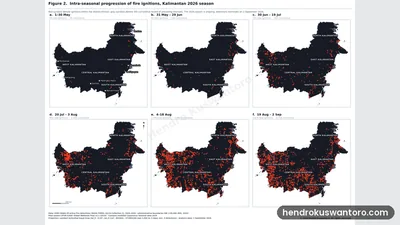
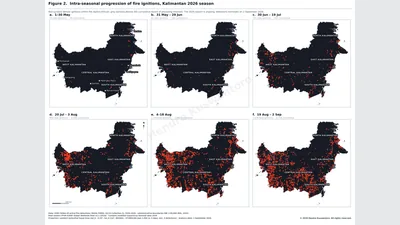
feat(gambar): label nama situs di pojok gambar karya dihapus
Atas permintaan pemilik. Lembar petanya sendiri sudah memuat nama dan hak
ciptanya, jadi label tambahan hanya menutupi isi peta.

build_work_images.py kini juga menyalin hasilnya ke
next/public/assets/img/work/. Sebelumnya salinan port Next disalin tangan,
dan tanpa ini port Next tetap memakai gambar berlabel.

Changed region(s): [[0.69, 0.9022, 0.99, 0.9956]]

diff --git a/project.html b/project.html
@@ -112,8 +112,8 @@
 
         <article class="card reveal" id="karya-parking" data-category="app">
           <div class="card__cover">
-            <img src="/assets/img/work/parking.webp?v=8e000f92a9"
-                 srcset="/assets/img/work/parking-400.webp?v=52d7f76f31 400w, /assets/img/work/parking-600.webp?v=6232295625 600w, /assets/img/work/parking.webp?v=8e000f92a9 800w"
+            <img src="/assets/img/work/parking.webp?v=12dc5e71f9"
+                 srcset="/assets/img/work/parking-400.webp?v=8c0a75ce2b 400w, /assets/img/work/parking-600.webp?v=d514756973 600w, /assets/img/work/parking.webp?v=12dc5e71f9 800w"
                  sizes="(min-width: 1440px) 443px, (min-width: 960px) 31vw, (min-width: 660px) 47vw, 92vw" width="800" height="450" loading="lazy" decoding="async"
                  alt="Screenshot of the parking map app showing the zone and the fee for Jalan Malioboro" data-ind-alt="Tangkapan layar aplikasi peta parkir, menampilkan zona dan tarif di Jalan Malioboro">
             <span class="card__badge" data-ind="Aplikasi peta">Map app</span>
@@ -129,8 +129,8 @@
 
         <article class="card reveal" id="karya-fire" data-category="satellite analysis">
           <div class="card__cover">
-            <img src="/assets/img/work/fire.webp?v=e1e03bc9f7"
-                 srcset="/assets/img/work/fire-400.webp?v=203c19d9d7 400w, /assets/img/work/fire-600.webp?v=2bd21ca442 600w, /assets/img/work/fire.webp?v=e1e03bc9f7 800w"
+            <img src="/assets/img/work/fire.webp?v=b8b2d4072d"
+                 srcset="/assets/img/work/fire-400.webp?v=a212b49ec5 400w, /assets/img/work/fire-600.webp?v=db3194a43f 600w, /assets/img/work/fire.webp?v=b8b2d4072d 800w"
                  sizes="(min-width: 1440px) 443px, (min-width: 960px) 31vw, (min-width: 660px) 47vw, 92vw" width="800" height="450" loading="lazy" decoding="async"
                  alt="Six small maps of Kalimantan showing where fires ignited through the 2026 season" data-ind-alt="Enam peta kecil Kalimantan yang menunjukkan titik api sepanjang musim 2026">
             <span class="card__badge" data-ind="Data satelit">Satellite data</span>
@@ -146,8 +146,8 @@
 
         <article class="card reveal" id="karya-fish" data-category="analysis">
           <div class="card__cover">
-            <img src="/assets/img/work/fish.webp?v=ebbd9fdb43"
-                 srcset="/assets/img/work/fish-400.webp?v=f845383dce 400w, /assets/img/work/fish-600.webp?v=7e095854b6 600w, /assets/img/work/fish.webp?v=ebbd9fdb43 800w"
+            <img src="/assets/img/work/fish.webp?v=6dd5455c36"
+                 srcset="/assets/img/work/fish-400.webp?v=c53febb9af 400w, /assets/img/work/fish-600.webp?v=f9ca04fbcf 600w, /assets/img/work/fish.webp?v=6dd5455c36 800w"
                  sizes="(min-width: 1440px) 443px, (min-width: 960px) 31vw, (min-width: 660px) 47vw, 92vw" width="800" height="450" loading="lazy" decoding="async"
                  alt="Poster with suitability maps and charts for fish landing sites in Natuna" data-ind-alt="Poster berisi peta kesesuaian dan grafik lokasi pendaratan ikan di Natuna">
             <span class="card__badge" data-ind="Analisis peta">Map analysis</span>
@@ -163,8 +163,8 @@
 
         <article class="card reveal" id="karya-pickup" data-category="analysis">
           <div class="card__cover">
-            <img src="/assets/img/work/pickup.webp?v=c87b665813"
-                 srcset="/assets/img/work/pickup-400.webp?v=ed17ec7db1 400w, /assets/img/work/pickup-600.webp?v=0c62cc569b 600w, /assets/img/work/pickup.webp?v=c87b665813 800w"
+            <img src="/assets/img/work/pickup.webp?v=b8a1371611"
+                 srcset="/assets/img/work/pickup-400.webp?v=0c9f39047f 400w, /assets/img/work/pickup-600.webp?v=e4d6ca77fc 600w, /assets/img/work/pickup.webp?v=b8a1371611 800w"
                  sizes="(min-width: 1440px) 443px, (min-width: 960px) 31vw, (min-width: 660px) 47vw, 92vw" width="800" height="450" loading="lazy" decoding="async"
                  alt="Map of common pickup points from driver GPS pings in Jakarta" data-ind-alt="Peta titik jemput umum dari ping GPS pengemudi di Jakarta">
             <span class="card__badge" data-ind="Analisis peta">Map analysis</span>
@@ -180,8 +180,8 @@
 
         <article class="card reveal" id="karya-reach" data-category="analysis design">
           <div class="card__cover">
-            <img src="/assets/img/work/reach.webp?v=416ec76d18"
-                 srcset="/assets/img/work/reach-400.webp?v=f410f4b4dc 400w, /assets/img/work/reach-600.webp?v=bac95053fa 600w, /assets/img/work/reach.webp?v=416ec76d18 800w"
+            <img src="/assets/img/work/reach.webp?v=de663f5dfd"
+                 srcset="/assets/img/work/reach-400.webp?v=31c3b750a4 400w, /assets/img/work/reach-600.webp?v=5895df2181 600w, /assets/img/work/reach.webp?v=de663f5dfd 800w"
                  sizes="(min-width: 1440px) 443px, (min-width: 960px) 31vw, (min-width: 660px) 47vw, 92vw" width="800" height="450" loading="lazy" decoding="async"
                  alt="Map sheet of service accessibility in Biak Numfor" data-ind-alt="Lembar peta aksesibilitas layanan di Biak Numfor">
             <span class="card__badge" data-ind="Analisis peta">Map analysis</span>
@@ -197,8 +197,8 @@
 
         <article class="card reveal" id="karya-landcover" data-category="design satellite">
           <div class="card__cover">
-            <img src="/assets/img/work/landcover.webp?v=32d9278ab6"
-                 srcset="/assets/img/work/landcover-400.webp?v=ad8e38f103 400w, /assets/img/work/landcover-600.webp?v=4b25319f35 600w, /assets/img/work/landcover.webp?v=32d9278ab6 800w"
+            <img src="/assets/img/work/landcover.webp?v=e13c3bb494"
+                 srcset="/assets/img/work/landcover-400.webp?v=2089e6fd21 400w, /assets/img/work/landcover-600.webp?v=e6c2f48670 600w, /assets/img/work/landcover.webp?v=e13c3bb494 800w"
                  sizes="(min-width: 1440px) 443px, (min-width: 960px) 31vw, (min-width: 660px) 47vw, 92vw" width="800" height="450" loading="lazy" decoding="async"
                  alt="Land cover map sheet of the Yogyakarta urban area" data-ind-alt="Lembar peta tutupan lahan kawasan perkotaan Yogyakarta">
             <span class="card__badge" data-ind="Desain peta">Map design</span>
@@ -214,8 +214,8 @@
 
         <article class="card reveal" id="karya-mimika" data-category="satellite design">
           <div class="card__cover">
-            <img src="/assets/img/work/mimika.webp?v=2730c6038d"
-                 srcset="/assets/img/work/mimika-400.webp?v=af96c4e8e0 400w, /assets/img/work/mimika-600.webp?v=7fc2a572a9 600w, /assets/img/work/mimika.webp?v=2730c6038d 800w"
+            <img src="/assets/img/work/mimika.webp?v=1775aba76d"
+                 srcset="/assets/img/work/mimika-400.webp?v=9dc65184ef 400w, /assets/img/work/mimika-600.webp?v=0a0a88c57b 600w, /assets/img/work/mimika.webp?v=1775aba76d 800w"
                  sizes="(min-width: 1440px) 443px, (min-width: 960px) 31vw, (min-width: 660px) 47vw, 92vw" width="800" height="450" loading="lazy" decoding="async"
                  alt="Map of mining excavations and forest cover loss in Mimika" data-ind-alt="Peta bukaan tambang dan kehilangan tutupan hutan di Mimika">
             <span class="card__badge" data-ind="Data satelit">Satellite data</span>

diff --git a/next/content/projects.ts b/next/content/projects.ts
@@ -29,7 +29,7 @@ export const PROJECTS: Project[] = [
   {
     id: "parking",
     point: { lng: 110.3656, lat: -7.7925 },
-    image: "/assets/img/work/parking.webp?v=8e000f92a9",
+    image: "/assets/img/work/parking.webp?v=12dc5e71f9",
     alt: { en: "Screenshot of the parking map app showing the zone and the fee for Jalan Malioboro", id: "Tangkapan layar aplikasi peta parkir, menampilkan zona dan tarif di Jalan Malioboro" },
     categories: ["app"],
     badge: { en: "Map app", id: "Aplikasi peta" },
@@ -49,7 +49,7 @@ export const PROJECTS: Project[] = [
   {
     id: "fire",
     point: { lng: 113.2, lat: -1.6 },
-    image: "/assets/img/work/fire.webp?v=e1e03bc9f7",
+    image: "/assets/img/work/fire.webp?v=b8b2d4072d",
     alt: { en: "Six small maps of Kalimantan showing where fires ignited through the 2026 season", id: "Enam peta kecil Kalimantan yang menunjukkan titik api sepanjang musim 2026" },
     categories: ["satellite", "analysis"],
     badge: { en: "Satellite data", id: "Data satelit" },
@@ -68,7 +68,7 @@ export const PROJECTS: Project[] = [
   {
     id: "fish",
     point: { lng: 108.22, lat: 3.7 },
-    image: "/assets/img/work/fish.webp?v=ebbd9fdb43",
+    image: "/assets/img/work/fish.webp?v=6dd5455c36",
     alt: { en: "Poster with suitability maps and charts for fish landing sites in Natuna", id: "Poster berisi peta kesesuaian dan grafik lokasi pendaratan ikan di Natuna" },
     categories: ["analysis"],
     badge: { en: "Map analysis", id: "Analisis peta" },
@@ -87,7 +87,7 @@ export const PROJECTS: Project[] = [
   {
     id: "pickup",
     point: { lng: 106.82, lat: -6.21 },
-    image: "/assets/img/work/pickup.webp?v=c87b665813",
+    image: "/assets/img/work/pickup.webp?v=b8a1371611",
     alt: {
       en: "Map of common pickup points from driver GPS pings in Jakarta",
       id: "Peta titik jemput umum dari ping GPS pengemudi di Jakarta",
@@ -112,7 +112,7 @@ export const PROJECTS: Project[] = [
   {
     id: "reach",
     point: { lng: 136.08, lat: -1.18 },
-    image: "/assets/img/work/reach.webp?v=416ec76d18",
+    image: "/assets/img/work/reach.webp?v=de663f5dfd",
     alt: { en: "Map sheet of service accessibility in Biak Numfor", id: "Lembar peta aksesibilitas layanan di Biak Numfor" },
     categories: ["analysis", "design"],
     badge: { en: "Map analysis", id: "Analisis peta" },
@@ -131,7 +131,7 @@ export const PROJECTS: Project[] = [
   {
     id: "landcover",
     point: { lng: 110.405, lat: -7.755 },
-    image: "/assets/img/work/landcover.webp?v=32d9278ab6",
+    image: "/assets/img/work/landcover.webp?v=e13c3bb494",
     alt: { en: "Land cover map sheet of the Yogyakarta urban area", id: "Lembar peta tutupan lahan kawasan perkotaan Yogyakarta" },
     categories: ["design", "satellite"],
     badge: { en: "Map design", id: "Desain peta" },
@@ -147,7 +147,7 @@ export const PROJECTS: Project[] = [
   {
     id: "mimika",
     point: { lng: 137.0, lat: -4.35 },
-    image: "/assets/img/work/mimika.webp?v=2730c6038d",
+    image: "/assets/img/work/mimika.webp?v=1775aba76d",
     alt: { en: "Map of mining excavations and forest cover loss in Mimika", id: "Peta bukaan tambang dan kehilangan tutupan hutan di Mimika" },
     categories: ["satellite", "design"],
     badge: { en: "Satellite data", id: "Data satelit" },

diff --git a/index.html b/index.html
@@ -226,8 +226,8 @@
 
         <article class="card">
           <div class="card__cover">
-            <img src="/assets/img/work/parking.webp?v=8e000f92a9"
-                 srcset="/assets/img/work/parking-400.webp?v=52d7f76f31 400w, /assets/img/work/parking-600.webp?v=6232295625 600w, /assets/img/work/parking.webp?v=8e000f92a9 800w"
+            <img src="/assets/img/work/parking.webp?v=12dc5e71f9"
+                 srcset="/assets/img/work/parking-400.webp?v=8c0a75ce2b 400w, /assets/img/work/parking-600.webp?v=d514756973 600w, /assets/img/work/parking.webp?v=12dc5e71f9 800w"
                  sizes="(min-width: 1440px) 443px, (min-width: 960px) 31vw, (min-width: 660px) 47vw, 92vw" width="800" height="450" loading="eager" fetchpriority="high" decoding="async"
                  alt="Screenshot of the parking map app showing the zone and the fee for Jalan Malioboro" data-ind-alt="Tangkapan layar aplikasi peta parkir, menampilkan zona dan tarif di Jalan Malioboro">
             <span class="card__badge" data-ind="Aplikasi peta">Map app</span>
@@ -244,8 +244,8 @@
 
         <article class="card">
           <div class="card__cover">
-            <img src="/assets/img/work/fire.webp?v=e1e03bc9f7"
-                 srcset="/assets/img/work/fire-400.webp?v=203c19d9d7 400w, /assets/img/work/fire-600.webp?v=2bd21ca442 600w, /assets/img/work/fire.webp?v=e1e03bc9f7 800w"
+            <img src="/assets/img/work/fire.webp?v=b8b2d4072d"
+                 srcset="/assets/img/work/fire-400.webp?v=a212b49ec5 400w, /assets/img/work/fire-600.webp?v=db3194a43f 600w, /assets/img/work/fire.webp?v=b8b2d4072d 800w"
                  sizes="(min-width: 1440px) 443px, (min-width: 960px) 31vw, (min-width: 660px) 47vw, 92vw" width="800" height="450" loading="lazy" decoding="async"
                  alt="Six small maps of Kalimantan showing where fires ignited through the 2026 season" data-ind-alt="Enam peta kecil Kalimantan yang menunjukkan titik api sepanjang musim 2026">
             <span class="card__badge" data-ind="Data satelit">Satellite data</span>
@@ -261,8 +261,8 @@
 
         <article class="card">
           <div class="card__cover">
-            <img src="/assets/img/work/fish.webp?v=ebbd9fdb43"
-                 srcset="/assets/img/work/fish-400.webp?v=f845383dce 400w, /assets/img/work/fish-600.webp?v=7e095854b6 600w, /assets/img/work/fish.webp?v=ebbd9fdb43 800w"
+            <img src="/assets/img/work/fish.webp?v=6dd5455c36"
+                 srcset="/assets/img/work/fish-400.webp?v=c53febb9af 400w, /assets/img/work/fish-600.webp?v=f9ca04fbcf 600w, /assets/img/work/fish.webp?v=6dd5455c36 800w"
                  sizes="(min-width: 1440px) 443px, (min-width: 960px) 31vw, (min-width: 660px) 47vw, 92vw" width="800" height="450" loading="lazy" decoding="async"
                  alt="Poster with suitability maps and charts for fish landing sites in Natuna" data-ind-alt="Poster berisi peta kesesuaian dan grafik lokasi pendaratan ikan di Natuna">
             <span class="card__badge" data-ind="Analisis peta">Map analysis</span>

diff --git a/parkir-jogja.html b/parkir-jogja.html
@@ -93,8 +93,8 @@
           </div>
         </header>
 
-        <img class="article__gambar" src="/assets/img/work/parking.webp?v=8e000f92a9"
-             srcset="/assets/img/work/parking-400.webp?v=52d7f76f31 400w, /assets/img/work/parking-600.webp?v=6232295625 600w, /assets/img/work/parking.webp?v=8e000f92a9 800w"
+        <img class="article__gambar" src="/assets/img/work/parking.webp?v=12dc5e71f9"
+             srcset="/assets/img/work/parking-400.webp?v=8c0a75ce2b 400w, /assets/img/work/parking-600.webp?v=d514756973 600w, /assets/img/work/parking.webp?v=12dc5e71f9 800w"
              sizes="(min-width: 1080px) 840px, 92vw" width="800" height="450" loading="lazy" decoding="async"
              alt="The parking map showing the zone and the fee for a street in Yogyakarta"
              data-ind-alt="Peta parkir yang menampilkan zona dan tarif untuk sebuah ruas di Yogyakarta">

diff --git a/next/components/ParkirJogjaView.tsx b/next/components/ParkirJogjaView.tsx
@@ -79,7 +79,7 @@ export function ParkirJogjaView() {
             <img
               className="article__gambar"
               src={PARKIR.image}
-              srcSet="/assets/img/work/parking-400.webp?v=52d7f76f31 400w, /assets/img/work/parking-600.webp?v=6232295625 600w, /assets/img/work/parking.webp?v=8e000f92a9 800w"
+              srcSet="/assets/img/work/parking-400.webp?v=8c0a75ce2b 400w, /assets/img/work/parking-600.webp?v=d514756973 600w, /assets/img/work/parking.webp?v=12dc5e71f9 800w"
               sizes="(min-width: 1080px) 840px, 92vw"
               alt={say(PARKIR.alt)}
               width={800}

diff --git a/next/content/parkir-jogja.ts b/next/content/parkir-jogja.ts
@@ -17,7 +17,7 @@ export const PARKIR = {
     id: "Taruh pin di jalan mana pun di Kota Yogyakarta, zona dan tarif parkirnya langsung terlihat. Sama pentingnya, peta ini tahu kapan harus diam.",
   } as Copy,
 
-  image: "/assets/img/work/parking.webp?v=8e000f92a9",
+  image: "/assets/img/work/parking.webp?v=12dc5e71f9",
   alt: {
     en: "The parking map showing the zone and the fee for a street in Yogyakarta",
     id: "Peta parkir yang menampilkan zona dan tarif untuk sebuah ruas di Yogyakarta",

diff --git a/tools/build_work_images.py b/tools/build_work_images.py
@@ -1,16 +1,15 @@
+import shutil
 from pathlib import Path
-from PIL import Image, ImageDraw, ImageFont
+from PIL import Image
 
 SOURCE = Path("D:/Projects/Portfolio Kerja")
 OUT = Path(__file__).resolve().parent.parent / "assets" / "img" / "work"
+OUT_NEXT = Path(__file__).resolve().parent.parent / "next" / "public" / "assets" / "img" / "work"
 
 WIDTH, HEIGHT = 800, 450
 WIDTHS = (400, 600, 800)
 BACKGROUND = (229, 232, 234)
 QUALITY = 82
-
-TANDA = "hendrokuswantoro.com"
-HURUF = Path(__file__).resolve().parent.parent / "assets" / "fonts" / "poppins-v24-600-latin.woff2"
 
 WORK = {
     "parking": "sistem parkir yogyakarta/Aapppublik.png",
@@ -23,21 +22,6 @@ WORK = {
 }
 
 
-def tandai(canvas: Image.Image) -> Image.Image:
-    huruf = ImageFont.truetype(str(HURUF), 17)
-    kiri, atas, kanan, bawah = huruf.getbbox(TANDA)
-    lebar, tinggi = kanan - kiri, bawah - atas
-    px, py, tepi = 11, 7, 12
-    x1, y1 = WIDTH - tepi, HEIGHT - tepi
-    x0, y0 = x1 - lebar - 2 * px, y1 - tinggi - 2 * py
-
-    lapis = Image.new("RGBA", canvas.size, (0, 0, 0, 0))
-    gambar = ImageDraw.Draw(lapis)
-    gambar.rounded_rectangle((x0, y0, x1, y1), radius=(y1 - y0) // 2, fill=(0, 0, 0, 150))
-    gambar.text((x0 + px - kiri, y0 + py - atas), TANDA, font=huruf, fill=(255, 255, 255, 235))
-    return Image.alpha_composite(canvas.convert("RGBA"), lapis).convert("RGB")
-
-
 def build(name: str, relative: str) -> int:
     source = SOURCE / relative
     with Image.open(source) as image:
@@ -45,7 +29,6 @@ def build(name: str, relative: str) -> int:
         image.thumbnail((WIDTH, HEIGHT), Image.LANCZOS)
         canvas = Image.new("RGB", (WIDTH, HEIGHT), BACKGROUND)
         canvas.paste(image, ((WIDTH - image.width) // 2, (HEIGHT - image.height) // 2))
-    canvas = tandai(canvas)
 
     total = 0
     for width in WIDTHS:
@@ -67,6 +50,10 @@ def main() -> None:
     for name, relative in WORK.items():
         print(f"{name}  from  {(SOURCE / relative).name}")
         total += build(name, relative)
+    salinan = sorted(OUT_NEXT.glob("*.webp"))
+    for berkas in salinan:
+        shutil.copyfile(OUT / berkas.name, berkas)
+    print(f"{len(salinan)} salinan diperbarui di {OUT_NEXT.relative_to(OUT.parents[2])}")
     print(f"\n{len(WORK)} karya x {len(WIDTHS)} lebar = "
           f"{len(WORK) * len(WIDTHS)} berkas, {total / 1024:.0f} KB di cakram")
 

diff --git a/CLAUDE.md b/CLAUDE.md
@@ -85,7 +85,7 @@ dipakai CI, jadi menyunting hasilnya akan ketahuan, tetapi baru di CI.
 | `next/app/globals.css` | `tools/gaya_next.py` |
 | nomor `?v=` di seluruh HTML, `app.js`, dan gambar karya di port Next | `tools/versi_aset.py` |
 | `assets/img/og-cover.png`, ikon | `tools/build_og.py`, `tools/build_icons.py` |
-| `assets/img/work/*.webp` | `tools/build_work_images.py` |
+| `assets/img/work/*.webp`, salinannya di `next/public/assets/img/work/` | `tools/build_work_images.py` |
 | `@font-face` di `style.css` | `tools/ambil_font.py` |
 | `assets/js/parkir-data.js`, `next/content/parkir-data.json` | `tools/bangun_parkir.py` |
 | hash sha256 di `_headers` | `tools/hash_skrip.py` |
@@ -548,11 +548,12 @@ pun. Inilah sebab kegagalan acak di `test_dasbor_peramban.py` yang lama
 tidak ketemu. Sekarang pipanya dikuras utas latar ke `deque` berbatas.
 
 **Halaman web tidak bisa mencegah tangkapan layar**, dengan cara apa pun.
-Tangkapannya diambil sistem operasi, di luar jangkauan halaman. Yang
-dikerjakan sejak 26 September 2026 adalah kebalikannya: tiap gambar karya
-membawa nama situsnya di pojok kanan bawah, digambar `tools/build_work_images.py`,
-jadi gambar yang tertangkap tetap menyebut asalnya. Jangan menambahkan skrip
-yang mengaku menghalangi tangkapan layar.
+Tangkapannya diambil sistem operasi, di luar jangkauan halaman. Jangan
+menambahkan skrip yang mengaku menghalangi tangkapan layar. Dari 26 sampai 29
+September 2026 tiap gambar karya membawa label nama situs di pojok kanan
+bawah; pemilik memintanya dihapus, sebab lembar petanya sendiri sudah memuat
+nama dan hak ciptanya. `tools/build_work_images.py` sekarang juga menyalin
+hasilnya ke `next/public/assets/img/work/`, yang sebelumnya disalin tangan.
 
 **Di balik nginx, uvicorn mendengarkan lewat soket Unix, dan di sana ia
 tidak punya alamat klien sama sekali.** `--forwarded-allow-ips='127.0.0.1'`
